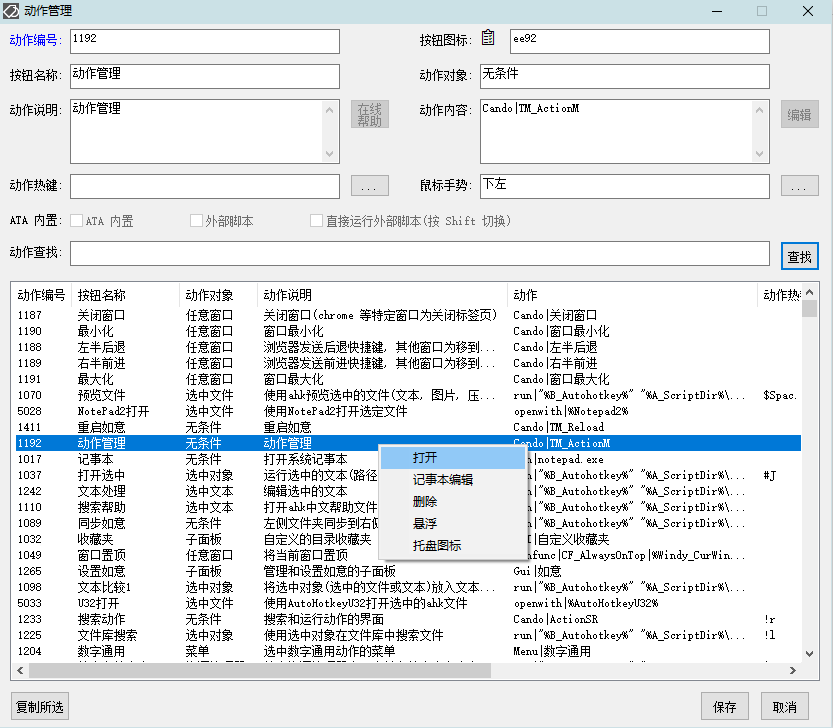
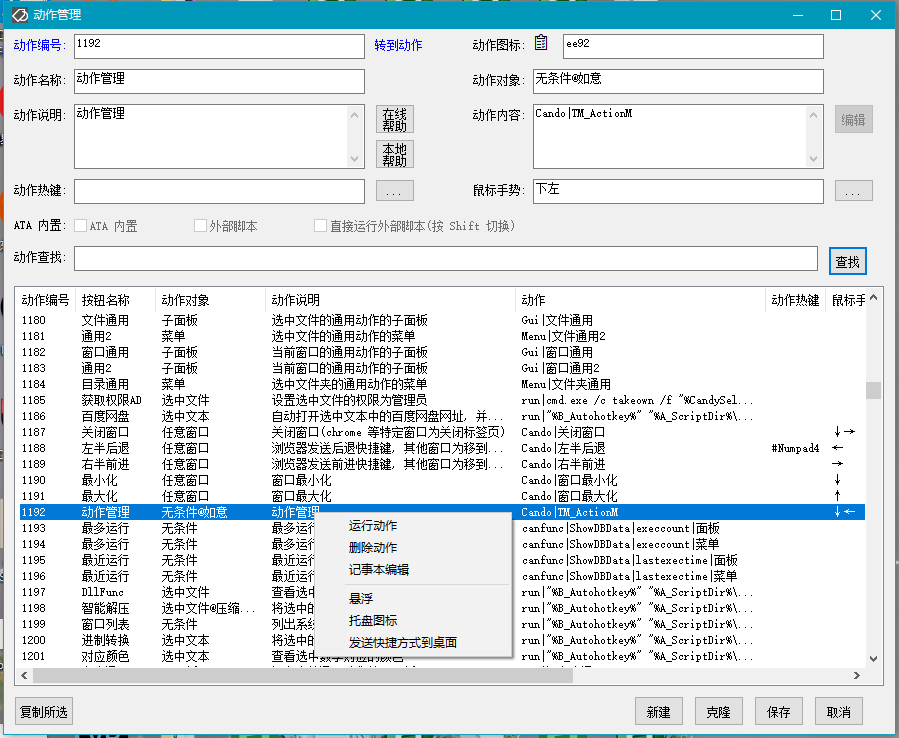
如意 2.9.0.1 的说明文档

Changed region(s): [[0.0, 0.0, 1.0, 1.0]]

diff --git a/RuYi-Ahk/index.md b/RuYi-Ahk/index.md
@@ -10,17 +10,17 @@ description: 如意百宝箱-Ahk 简介
 
 **如意百宝箱-Ahk**: 如意百宝箱是一款针对不同窗口和选中文件显示一个定制的动作面板的快捷启动工具. 动作面板由热键或鼠标手势来显示, 然后点击动作按钮来执行动作, 也可以由单独的热键或鼠标手势直接执行动作. 软件可以自由新增动作(如改写内置动作, 添加外部 ahk 脚本).  
 
-**脚本下载**: [RuYi_2.8.zip](https://wyagd001.github.io/RuYi-Ahk/RuYi.zip)  
+**程序下载**: [RuYi_2.8.zip](https://wyagd001.github.io/RuYi-Ahk/RuYi.zip)  
 
-**当前版本**: [2.8 - 2024/12/3](history.md)
+**当前版本**: [2.9 - 2024/12/16](history.md)
 
 **最新发布**: [https://github.com/wyagd001/RuYi-Ahk](https://github.com/wyagd001/RuYi-Ahk)  
 
 **其他页面**:  [感谢名单](thanks.md)  
 
-**关键词及目录**: AutoHotkey [快捷键与模式](#hotkey) [面板](#board)  [动作](#action)  [外部脚本](#script)
+**关键词及目录**: AutoHotkey [快捷键与模式](#hotkey)  [面板](#board)  [动作](#action)  [外部脚本](#script)
 
-### [](#header-3)功能介绍
+### [](#header-3)介绍
 如意百宝箱受到类似软件 Quicker, Ahk 的 Windy 和 Candy 脚本的影响, 是一款由 AutoHotkey 脚本语言编写的快速启动软件. 打开 "如一.exe" 即启动了程序, 然后在不同的窗口按下 Ctrl+Mbutton 即可显示定制的动作面板, 点击面板上的按钮来执行相应的动作, 也可以使用鼠标手势 "上右" 来显示主面板. 欢迎大家试用, 非常渴望倾听您的声音. 欢迎您的任何意见、建议、疑问、吐槽, 或者鼓励.  
 
 #### <span id="hotkey">快捷键与模式</span>
@@ -71,7 +71,7 @@ description: 如意百宝箱-Ahk 简介
   - 动作的管理由托盘菜单的 "[动作管理](/actions/1192.md)" 和面板按钮编辑界面的 "转到动作编辑" 按钮来启动.   
     动作管理界面可以编辑动作, 例如修改动作的图标, 名称, 针对的对象, 热键, 鼠标手势, 说明文本, 动作的命令. 也可以在这里创建新的动作, 要保存一个新动作输入一个新的动作编号即可(自定义动作编号 > 5000).  
         ![Image text](../img/动作管理.jpg)
-  -  动作除了通过通过面板或菜单运行外, 还可以通过以下方式运行  
+  -  动作除了通过面板或菜单运行外, 还可以通过以下方式运行  
      -  .1 [\[1.5+\]](./history.md#1.5)动作可以设置单独的热键, 如 "^!a", 表示 Ctrl + Alt + a 热键来直接启动该动作  
      -  .2 [\[1.5+\]](./history.md#1.5)动作可以设置单独的鼠标手势(上下左右), 如 "左", 表示按下鼠标右键后向左拖, 默认配置是将窗口放到左半屏幕.  
      -  .3 [\[1.8+\]](./history.md#1.8)动作可以通过[热字串](./actions/1264.md)来启动打开. 例: 默认配置中 "jsb" 打开记事本  
@@ -79,17 +79,17 @@ description: 如意百宝箱-Ahk 简介
      -  .5 [\[1.7+\]](./history.md#1.7)设置动作悬浮为按钮, 可以通过点击单个动作的悬浮按钮来打开  
      -  .6 [\[1.9+\]](./history.md#1.9)在如意运行时, 通过运行主程序加动作编号的方式, 如 "如一.exe 1017" 来打开指定动作  
      -  .7 [\[1.9+\]](./history.md#1.9)如意固定到任务栏, 通过任务栏按钮菜单点击菜单项目打开最近的某个动作(可固定动作)(启动方式同 6)  
-     -  .8 [\[2.0+\]](./history.md#2.0)设置[自动动作](./actions/1414.md), 启动如意时自动打开或定时自动打开  
-     -  .9 [\[2.1+\]](./history.md#2.1)设置[文件右键菜单](./actions/1342.md), 通过资源管理器中文件的右键菜单打开(启动方式同 6, 但是带有文件路径参数)  
+     -  .8 [\[2.0+\]](./history.md#2.0)设置动作为[自动动作](./actions/1414.md), 启动如意时自动打开或定时自动打开  
+     -  .9 [\[2.1+\]](./history.md#2.1)添加动作到[文件右键菜单](./actions/1342.md), 通过资源管理器中文件的右键菜单打开(启动方式同 6, 但是带有文件路径参数)  
      -  .10 [\[2.1+\]](./history.md#2.1)[网络控制](./webaction.md), 通过[网页](http://127.0.0.1:5151)(运行着如意的电脑中的浏览器打开链接来查看) 来打开执行动作(任意窗口和无条件的动作)  
      -  .11 [\[2.3+\]](./history.md#2.3)设置动作到托盘按钮, 通过点击托盘按钮来打开  
      -  .12 [\[2.4+\]](./history.md#2.4)点击[额外任务栏](./actions/1523.md)上的动作按钮来打开执行动作  
-     -  .13 [\[2.5+\]](./history.md#2.5)设置[自动动作](./actions/1414.md), 监控剪贴板变化, 监控文件夹变化, 监控窗口变化, 满足条件时自动运行指定的动作
+     -  .13 [\[2.5+\]](./history.md#2.5)设置动作为[自动动作](./actions/1414.md), 监控剪贴板变化, 监控文件夹变化, 监控窗口变化, 满足条件时自动运行指定的动作
      -  .14 [\[2.5+\]](./history.md#2.5)按下快捷键开启在线语音识别, 对麦克风说出"动作名称", 按说出的名称执行动作
      -  .15 [\[2.6+\]](./history.md#2.6)语音唤醒, 对麦克风说出"如意如意"后(使用系统自带的语音识别), 按说出的名称执行动作
 
 #### <span id="script">外部脚本</span>
-  - 许多动作是由外部的 ahk 脚本来完成的, 它们统一放在 "外部脚本" 目录. 外部脚本在动作中最多支持 3 个命令行参数, 并且支持如意内置的[变量](./var.md). 现在内置动作自带的外部动作脚本有 300 个.  
+  - 许多动作是由外部的 ahk 脚本来完成的, 它们统一放在 "外部脚本" 目录. 外部脚本在动作中最多支持 3 个命令行参数, 并且支持如意内置的[变量](./var.md). 现在内置动作自带的外部动作脚本有 302 个.  
     [完整的外部脚本列表](scriptlist.md)  
     下面列出了一些自带的外部脚本动作, 第二列为外部动作脚本是否集成在 AnyToAhk.exe(ATA) 中.  
 

diff --git a/RuYi-Ahk/actions/1192.md b/RuYi-Ahk/actions/1192.md
@@ -23,11 +23,30 @@ description: 如意百宝箱-Ahk 动作介绍
 执行如意的内置的标签 "TM_ActionM", 为如意内置动作  
 
 **代码或详细解释**:  
-显示一个如意所有动作的列表, 可以在该界面管理动作. 动作编号相当于文件名, 动作修改后要保存为新的动作, 输入一个新的动作编号, 例如 5041, 然后保存即可.  
+显示一个如意所有动作的列表, 可以在该界面管理动作.  
 
-选中动作后的右键菜单.  
-1. 打开. 动作对象为: 无条件 的动作直接运行, 其他类型的动作不会有作用.  
-2. 记事本编辑. 动作内容为外部脚本的动作, 使用记事本打开外部脚本文件.  
-4. 删除. 删除动作(最好只删除自定义动作(编号>5000)).  
-3. 悬浮. 将动作放入悬浮按钮.  
-5. 托盘图标. 将动作放入托盘图标.  
+动作编号: 相当于文件名, 新的动作需要指定一个新的动作编号, 例如 5041, 然后填充其他项目保存即可. 新动作也可由原有动作修改后, 指定新的动作编号后保存为新动作.  
+
+动作图标: 动作在面板按钮和菜单中显示的图标  
+1[\[2.1+\]](./history.md#2.1): 可自定义子面板中按钮的颜色, 例 e188@DD3c4F e188 为字符的编码, @ 为分隔符, DD3c4F 为颜色编码  
+2[\[2.8+\]](./history.md#2.8): 可自定义面板中按钮图标为其他字体中的字符, 例 1234★4321☆字体名称A, 面板中该动作的按钮将使用 字体A 中编号为 4321 的字符, 菜单图标继续使用默认字体 segmdl2.ttf 中的图标字符 1234  
+
+动作名称: 动作在面板按钮和菜单中显示的中文名称  
+
+动作对象: 动作作用对象, 动作的运行所需条件  
+1[\[2.6+\]](./history.md#2.6): 动作对象项目支持添加动作的面板标签, 例 资源管理器@CabinetWClass, 选中对象@@文件通用  
+2[\[2.9+\]](./history.md#2.9):  
+
+动作内容: 动作运行的标签, 函数, 命令  
+
+动作热键: 设置动作的快捷键, 例如 #C 执行动作 1012 打开 Cmd, 首字符为 @ 时表示禁用该热键  
+
+动作手势: 设置动作的鼠标手势, 例如 上下 执行动作 1017 打开记事本  
+
+列表中选中动作后的右键菜单.  
+1. 运行动作. 动作对象为 无条件 的动作直接运行, 其他类型的动作不会有作用.  
+2. 删除动作. 删除动作(最好只删除自定义动作(编号>5000)).  
+3. 记事本编辑. 动作内容为外部脚本的动作, 使用记事本打开外部脚本文件.  
+4. 悬浮. 将动作放入悬浮按钮.  
+5[\[2.3+\]](./history.md#2.3). 托盘图标. 将动作放入托盘图标.  
+6[\[2.7+\]](./history.md#2.7). 发送快捷方式到桌面. 将动作的快捷方式发送到桌面, 仅适用于动作对象为 无条件 的动作.  

diff --git a/RuYi-Ahk/scriptlist.md b/RuYi-Ahk/scriptlist.md
@@ -243,7 +243,7 @@ description: 如意百宝箱-Ahk 内置外部脚本
 |1518|是|[结束进程](/actions/1518.md)|选中文件|根据选中exe文件的名称来结束同名的进程|结束文件同名进程.ahk|
 |1521|是|[截取屏幕](/actions/1503.md)|无条件|截取屏幕并存入脚本所在目录的截图目录中(带鼠标光标)|截图并自动保存.ahk|
 |1524|是|任务栏自动隐藏|无条件|切换任务栏的自动隐藏|设置任务栏自动隐藏.ahk|
-|1528|否|摸鱼看股|无条件|更改额外任务栏最上面文本为上证指数当天价格和涨幅|摸鱼看股.ahk|
+|1528|是|摸鱼看股|无条件|更改额外任务栏最上面文本为上证指数当天价格和涨幅|摸鱼看股.ahk|
 |1529|是|[随机播放](/actions/1529.md)|无条件|随机播放指定文件夹(列表) 中的音频文件|随机播放.ahk|
 |1530|否|[区域截图](/actions/1530.md)|无条件|拖动鼠标区域截图|区域截图.ahk|
 |1532|是|[中英分隔](/actions/1532.md)|编辑器窗口|如果有选中文本, 将选中部分的中英文字符使用空格分隔(否则为全选文本)|文本处理_中英文隔开.ahk|
@@ -352,3 +352,5 @@ description: 如意百宝箱-Ahk 内置外部脚本
 |1688|否|深色模式|任意窗口|切换窗口的深色模式与浅色模式|深色模式.ahk|
 |1689|否|聚光灯|无条件|激活窗口正常亮度, 窗口外区域变暗|聚光灯.ahk|
 |1690|是|插入日期|无条件|插入日期|插入日期.ahk|
+|1693|是|U32打开|特定窗口|使用 AHK 运行当前窗口打开的脚本文件|其他编辑器打开.ahk|
+|1694|是|股价提醒|无条件@股票|监控当前股价满足指定条件时提醒|股价提醒.ahk|

diff --git a/RuYi-Ahk/actionlist.md b/RuYi-Ahk/actionlist.md
@@ -695,3 +695,7 @@ description: 如意百宝箱-Ahk 内置动作列表
 |1688|ea61|深色模式|任意窗口|切换窗口的深色模式与浅色模式|run&#124;"%B_Autohotkey%" "%A_ScriptDir%\外部脚本\窗口处理\深色模式.ahk" "%Windy_CurWin_Id%"|
 |1689|e754|聚光灯|无条件|激活窗口正常亮度, 窗口外区域变暗|run&#124;"%B_Autohotkey%" "%A_ScriptDir%\外部脚本\窗口处理\聚光灯.ahk"|
 |1690|e121|插入日期|无条件|插入日期|run&#124;"%B_Autohotkey%" "%A_ScriptDir%\外部脚本\文本处理\插入日期.ahk" "%CandySel%"|
+|1691|e8ec|最近选中|无条件@如意|显示最近选中列表管理界面|Cando&#124;CandySelListM|
+|1692|e8ec|临时热键|无条件@如意|显示临时热键管理界面|Cando&#124;TempHotkeyM|
+|1693|E70F|U32打开|特定窗口|使用 AHK 运行当前窗口打开的脚本文件|run&#124;"%B_Autohotkey%" "%A_ScriptDir%\外部脚本\窗口处理\其他编辑器打开.ahk" "%AutoHotkeyU32%"|
+|1694|eda8|股价提醒|无条件@股票|监控当前股价满足指定条件时提醒|run&#124;"%B_Autohotkey%" "%A_ScriptDir%\外部脚本\工具类\股价提醒.ahk"|

diff --git a/RuYi-Ahk/history.md b/RuYi-Ahk/history.md
@@ -10,6 +10,15 @@ description: 如意百宝箱-Ahk 更新历史
 
 下面列出了如意百宝箱发布以来的变更和新增内容.  
 
+### <span id="2.9">2.9 - 2024/12/16</span>
+1. 破坏性变更 修改自动运行动作配置的顺序, 动作编号后统一为动作名称  
+2. 新增 自动动作中的跟随动作支持重复运行, 即可设置每隔 30 分钟或 3 小时运行一次  
+3. 修改 外部脚本的配置文件, 统一存放在 "\配置文件\外部脚本" 文件夹  
+4. 新增 外部脚本动作  
+.01 设备属性窗口获取详细信息.ahk  
+.02 股价提醒.ahk  
+.03 
+
 ### <span id="2.8">2.8 - 2024/12/3</span>
 1. 新增 如意深色模式, 如意的窗口统一为黑底白字, win10 下菜单也为黑色(菜单图标文件夹 "如意白" 需要在 github 自行下载)  
 2. 新增 面板模式下动作按钮的图标可自定义其他字体中的字符, 例如动作图标设置为 1234★4321☆字体名称A, 面板中该动作的按钮将使用 字体A 中编号为 4321 的字符, 菜单图标继续使用 segmdl2.ttf 中的图标字符 1234  

diff --git a/RuYi-Ahk/actions/1171.md b/RuYi-Ahk/actions/1171.md
@@ -3,6 +3,9 @@ layout: default
 title: 如意百宝箱-Ahk
 description: 如意百宝箱-Ahk 动作介绍
 ---
+<link rel="stylesheet" href="../actions/css/atom-one-light.min.css">
+<script src="../actions/js/highlight.min.js"></script>
+<script>hljs.highlightAll();</script>
 
 [返回主页](../index.md)
 
